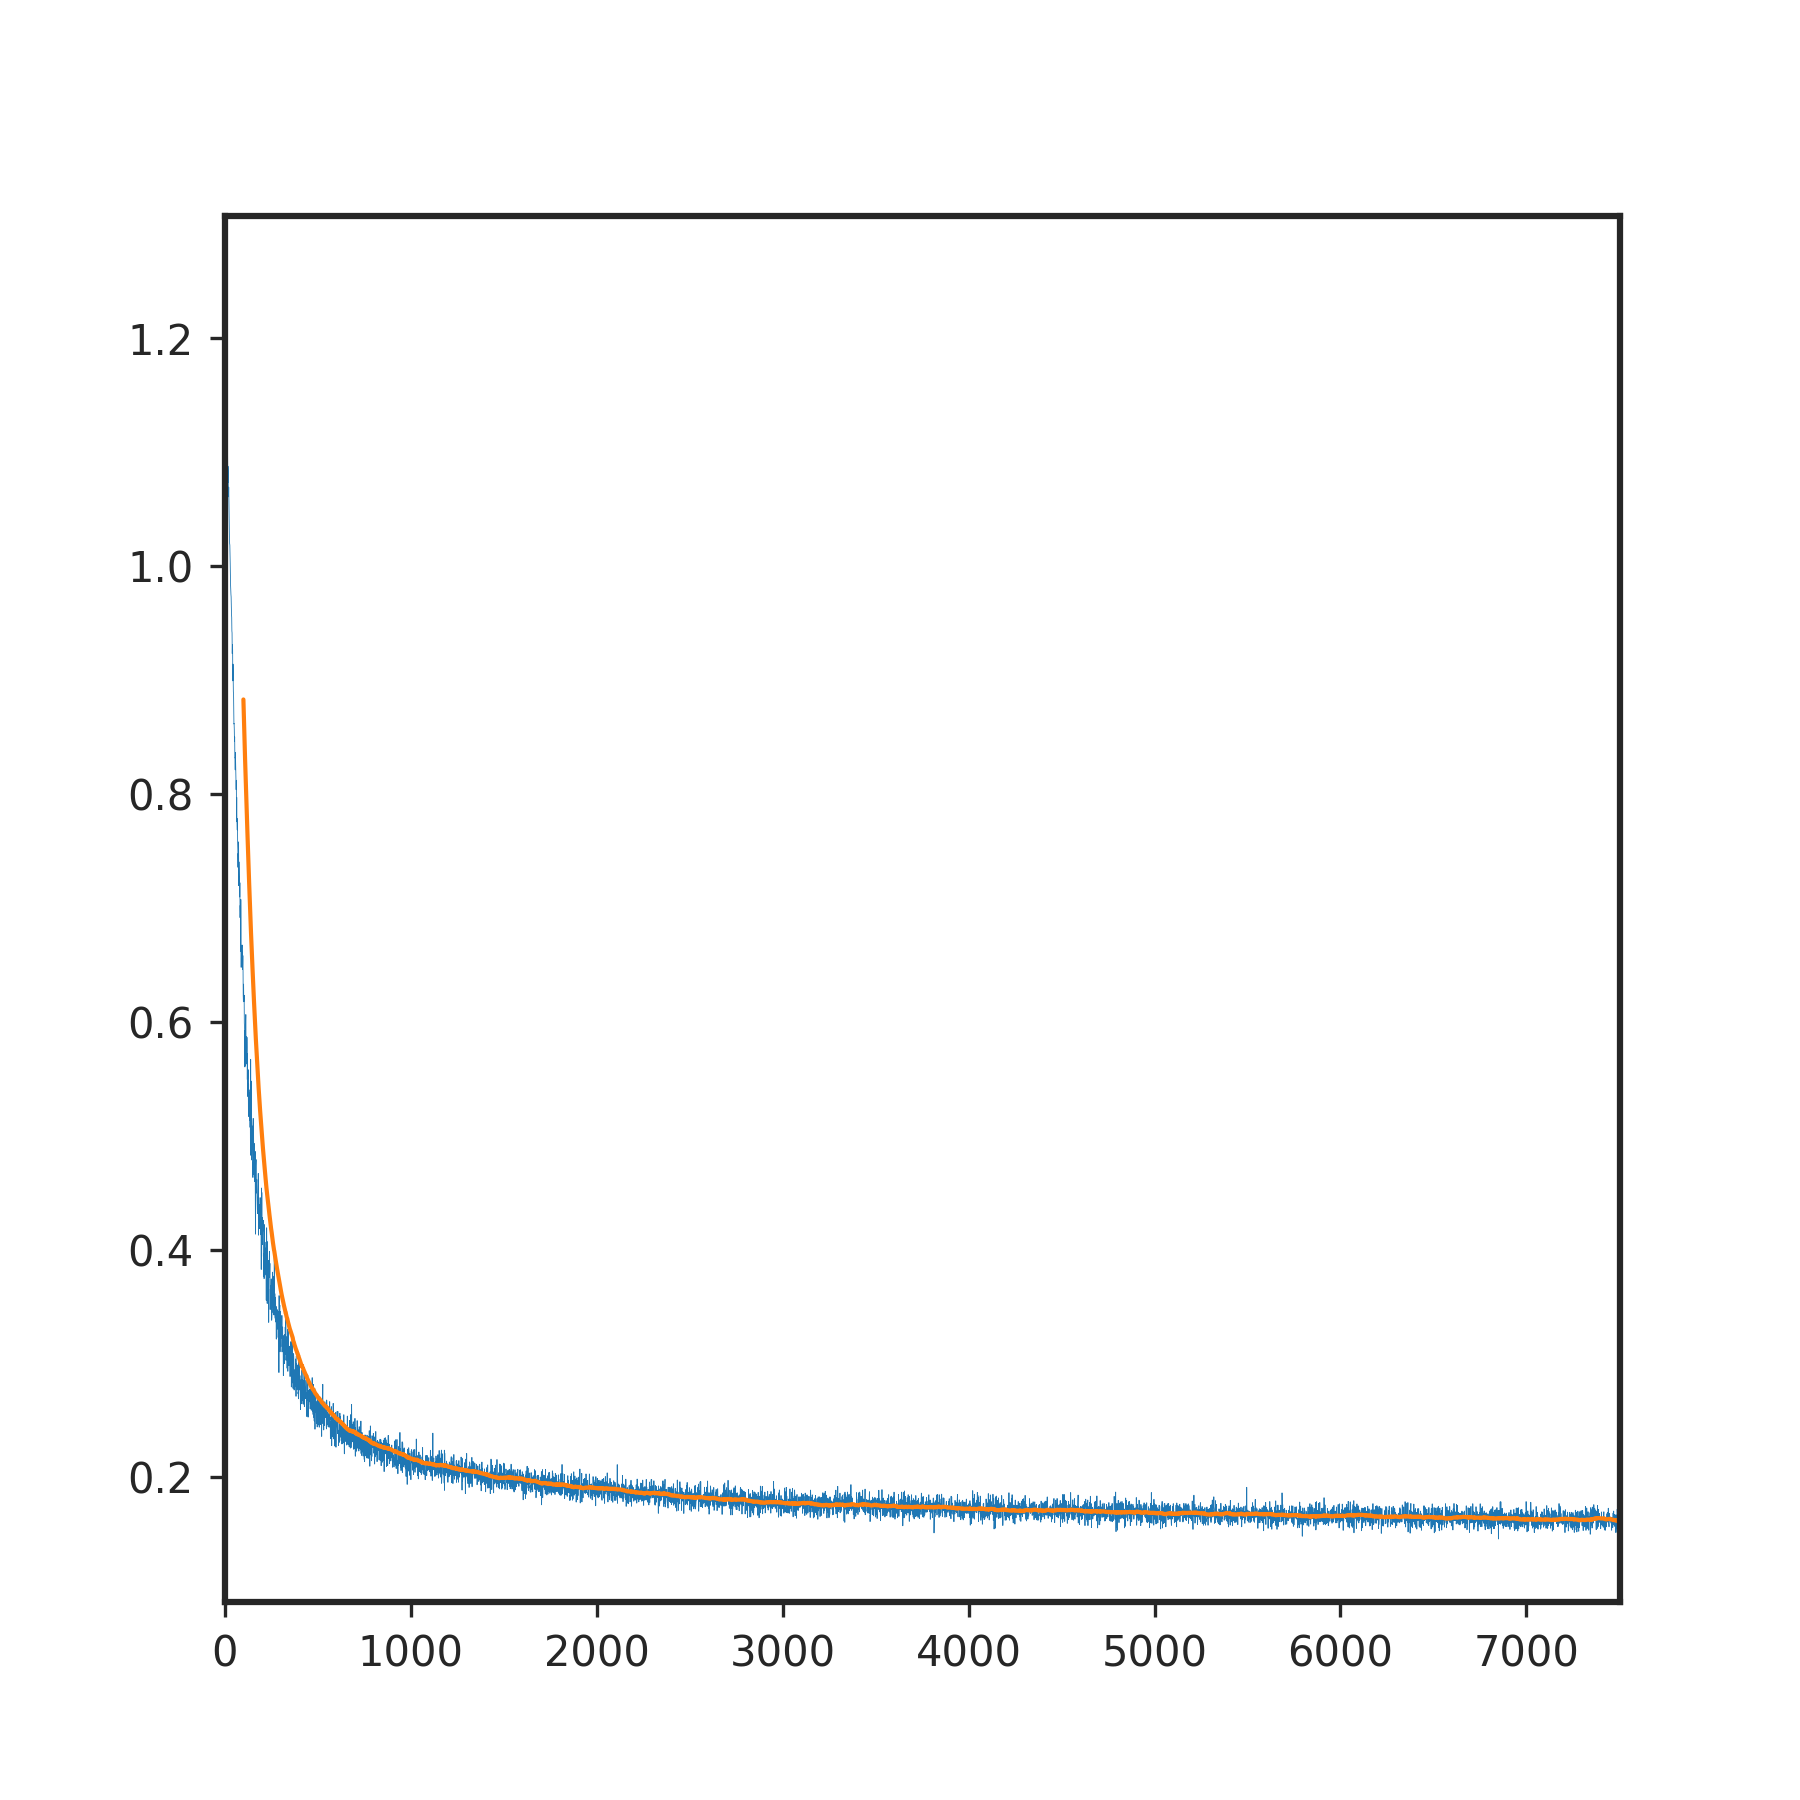
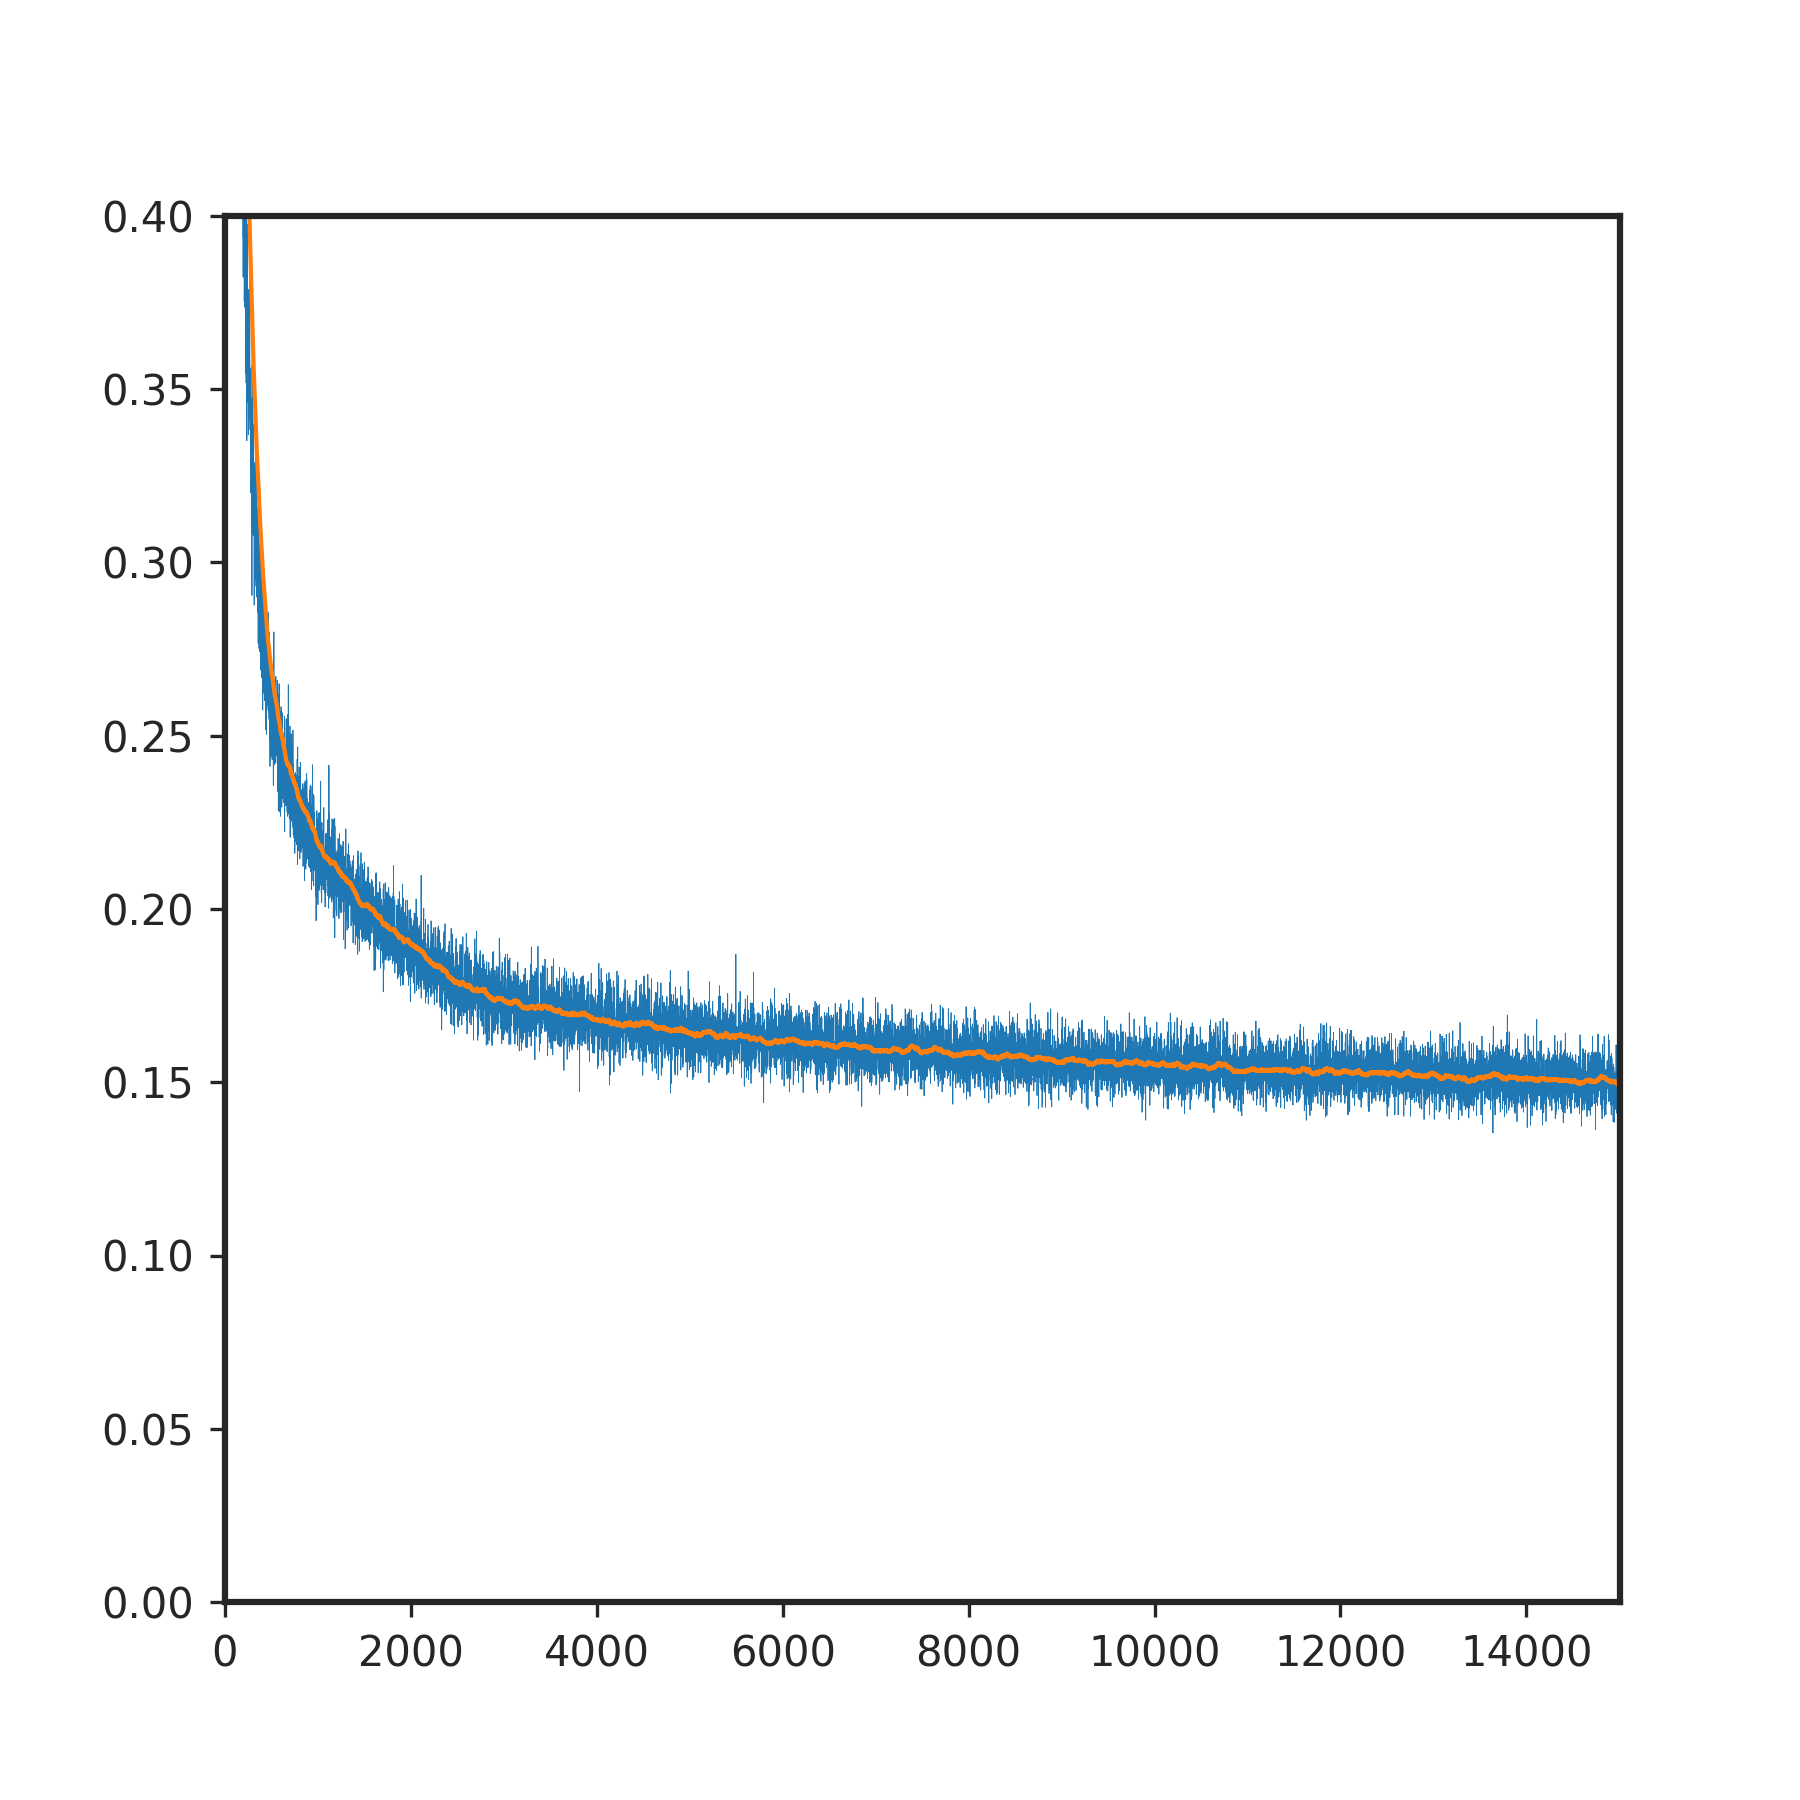
chore: updating notebooks

diff --git a/notebooks/2_4_fid.py b/notebooks/2_4_fid.py
@@ -6,9 +6,9 @@ from tqdm import tqdm
 
 from ddpm_from_scratch.engines.mnist import inference, load_mnist
 from ddpm_from_scratch.models.lenet5 import LeNet5
-from ddpm_from_scratch.models.unet import UNet
+from ddpm_from_scratch.models.unet_simple_with_timestep import UNetSimpleWithTimestep
 from ddpm_from_scratch.samplers.ddpm import DDPM
-from ddpm_from_scratch.utils import CosineBetaSchedule, gaussian_frechet_distance
+from ddpm_from_scratch.utils import LinearBetaSchedule, gaussian_frechet_distance
 
 PLOT_DIR = Path(__file__).parent.parent / "plots"
 DATA_DIR = Path(__file__).parent.parent / "data"
@@ -20,7 +20,8 @@ if __name__ == "__main__":
 
     #%% Load the LeNet5 model.
     lenet5 = LeNet5(num_classes=10)
-    lenet5.load_state_dict(torch.load(DATA_DIR / "2_4_lenet.pt")).to(device)
+    lenet5.load_state_dict(torch.load(DATA_DIR / "2_3_lenet5.pt"))
+    lenet5.to(device)
 
     # Load the MNIST dataset. Split between training and test set.
     mnist_train, dataloader_train, mnist_test, dataloader_test = load_mnist(DATA_DIR, batch_size=8)
@@ -28,7 +29,7 @@ if __name__ == "__main__":
     # Compute features for training and test set.
     with torch.inference_mode():
         features_train_list: list[Float[torch.Tensor, "b n"]] = []
-        for (x, _) in tqdm(dataloader_train, desc="lenet5 - training"):
+        for (x, _) in tqdm(dataloader_train, desc="lenet5 - training set"):
             x = x.to(device)
             f, _ = lenet5(x)
             features_train_list += [f]
@@ -49,14 +50,17 @@ if __name__ == "__main__":
     # Compute test-test and test-train FID, as lower bounds.
     test_test_fid = gaussian_frechet_distance(mean_test, cov_test, mean_test, cov_test).item()
     test_train_fid = gaussian_frechet_distance(mean_test, cov_test, mean_train, cov_train).item()
+    # Test-test FID should be 0, since we're comparing the same values. Just a sanity check.
     print(f"test-test FID: {test_test_fid:.4f}")
+    # Train-test FID should be ~0.8, a very low value since the distributions should also match.
     print(f"test-train FID: {test_train_fid:.4f}")
 
     #%% Compute test-random FID, as upper bound.
     # To estimate the FID of noise, create random noise, and compute its LeNet5 features.
+    # Here the FID is super high, > 1000. This is expected, since the noise is not a digit.
     with torch.inference_mode():
         features_rand_list: list[Float[torch.Tensor, "b n"]] = []
-        for (x, _) in tqdm(dataloader_test, desc="lenet5 - random"):
+        for (x, _) in tqdm(dataloader_test, desc="lenet5 - random data"):
             x = x.to(device)
             f, _ = lenet5(torch.rand_like(x))
             features_rand_list += [f]
@@ -66,12 +70,14 @@ if __name__ == "__main__":
     test_rand_fid = gaussian_frechet_distance(mean_test, cov_test, mean_rand, cov_rand).item()
     print(f"test-random FID: {test_rand_fid:.4f}")
 
-    #%% Generate a bunch of digits using the pretrained model
+    #%% Generate a bunch of digits using the pretrained model.
+    # We only use 50 steps in inference, to keep the process fast.
+    # We'll get an upper bound of FID, but that's ok! Feel free to use more steps, if you want.
 
-    unet = UNet()
-    unet.load_state_dict(torch.load(DATA_DIR / "2_3_unet.pt"))
-    betas = CosineBetaSchedule()
-    ddpm = DDPM(betas, unet, num_timesteps=1000, device=device)
+    unet = UNetSimpleWithTimestep()
+    unet.load_state_dict(torch.load(DATA_DIR / "2_2_unet.pt"))
+    betas = LinearBetaSchedule()
+    ddpm = DDPM(betas, unet, num_timesteps=50, device=device)
 
     with torch.inference_mode():
         features_ddpm_list: list[Float[torch.Tensor, "b n"]] = []

diff --git a/ddpm_from_scratch/engines/mnist.py b/ddpm_from_scratch/engines/mnist.py
@@ -31,6 +31,7 @@ class MnistInferenceGifCallback:
         self.writer = imageio.get_writer(filename, mode="I")
 
     def __call__(self, timestep: int, x: Float[torch.Tensor, "b ..."]) -> None:
+        x = torch.clip(x, -1, 1)
         # Plot multiple digits as a grid, each in a separate column
         grid = make_grid(x, padding=False, nrow=len(x), normalize=True)
         # Append the result to the GIF
@@ -63,7 +64,7 @@ def load_mnist(data_root: Path, batch_size: int = 4) -> tuple[MNIST, DataLoader,
         mnist_train,
         batch_size=batch_size,
         shuffle=True,
-        num_workers=4,
+        num_workers=8,
         drop_last=True,
     )
     mnist_test = MNIST(
@@ -87,7 +88,7 @@ def load_mnist(data_root: Path, batch_size: int = 4) -> tuple[MNIST, DataLoader,
     return mnist_train, dataloader_train, mnist_test, dataloader_test
 
 
-def get_one_element_per_digit(mnist: MNIST) -> Float[torch.Tensor, "10, 1, 28, 28"]:
+def get_one_element_per_digit(mnist: MNIST) -> Float[torch.Tensor, "10 1 28 28"]:
     """
     Get a single sample digit for each target category in MNIST, and return the result as a tensor.
     The output is a `[10, 1, 28, 28]` tensor, with digits `[0, 1, 2, ..., 9]`
@@ -138,7 +139,7 @@ def train(
             with torch.no_grad():
                 x_noisy, noise = sampler.forward_sample(t, x)
             # Predict the noise
-            _, predicted_noise = sampler.predict_x_0_and_noise(t, x_noisy)
+            predicted_noise = sampler.model(t, x_noisy)
             # Compute loss, as L2 of real and predicted noise
             loss = torch.nn.functional.mse_loss(predicted_noise, noise, reduction="mean")
             # Backward step
@@ -330,4 +331,6 @@ def inference(
         ):
             assert callback is not None
             callback(timestep, x)
-    return x
+    # Clip the output in [-1, 1]
+    return torch.clip(x, -1, 1)
+

diff --git a/notebooks/_3_4_inference_again.py b/notebooks/_3_4_inference_again.py
@@ -7,7 +7,7 @@ from segretini_matplottini.utils.plot_utils import reset_plot_style
 from tqdm import tqdm
 
 from ddpm_from_scratch.engines.mnist import MnistInferenceGifCallback, get_one_element_per_digit, load_mnist
-from ddpm_from_scratch.models.unet_simple import UNetSimple
+from ddpm_from_scratch.models.unet_simple_with_timestep import UNetSimpleWithTimestep
 from ddpm_from_scratch.samplers.ddim import DDIM
 from ddpm_from_scratch.utils import ScaledLinearBetaSchedule
 
@@ -28,7 +28,7 @@ if __name__ == "__main__":
 
     # Define the denoising model.
     # model = UNetConditioned(num_classes=10, hidden_channels=24).to(device)
-    model = UNetSimple().to(device)
+    model = UNetSimpleWithTimestep().to(device)
 
     # Create the diffusion process.
     num_timesteps = 1000
@@ -39,7 +39,7 @@ if __name__ == "__main__":
     mnist_train, dataloader_train, mnist_test, dataloader_test = load_mnist(DATA_DIR, batch_size=8)
 
     # Load the trained model
-    model.load_state_dict(torch.load(DATA_DIR / "2_1_unet.pt"))
+    model.load_state_dict(torch.load(DATA_DIR / "2_2_unet.pt"))
     model = model.half()
 
     #%% Do inference, denoising one sample digit for each category (0, 1, 2, ...).

diff --git a/notebooks/2_1_mnist.py b/notebooks/2_1_mnist.py
@@ -41,7 +41,7 @@ class Config:
 DEVICE = "cuda" if torch.cuda.is_available() else "cpu"
 TRAINING_CONFIG: dict[str, Config] = {
     "cuda": Config(
-        num_training_epochs=16,
+        num_training_epochs=32,
         batch_size=128,
         lr=1e-3,
         device=torch.device("cuda"),
@@ -113,7 +113,7 @@ if __name__ == "__main__":
         ),
     )
     batch_size = config.batch_size
-    dataloader = DataLoader(mnist, batch_size=batch_size, shuffle=True, num_workers=1)
+    dataloader = DataLoader(mnist, batch_size=batch_size, shuffle=True, num_workers=8)
 
     #%% Train the model.
     # This training is identical to denoising the spiral,
@@ -163,6 +163,7 @@ if __name__ == "__main__":
         zorder=2,
     )
     plt.xlim(0, len(losses))
+    plt.ylim(0, 0.4)
     save_plot(PLOT_DIR, "2_1_loss_function.png", create_date_dir=False)
 
     #%% Do inference, denoising one sample digit for each category (0, 1, 2, ...).

diff --git a/notebooks/2_2_mnist_with_timestep.py b/notebooks/2_2_mnist_with_timestep.py
@@ -39,9 +39,9 @@ class Config:
 DEVICE = "cuda" if torch.cuda.is_available() else "cpu"
 TRAINING_CONFIG: dict[str, Config] = {
     "cuda": Config(
-        num_training_epochs=32,
+        num_training_epochs=96,
         batch_size=128,
-        lr=1e-4,
+        lr=1e-3,
         device=torch.device("cuda"),
     ),
     "cpu": Config(
@@ -93,6 +93,9 @@ if __name__ == "__main__":
         device=device,
     )
 
+    # Save the model
+    torch.save(model.state_dict(), DATA_DIR / "2_2_unet.pt")
+
     #%% Plot the loss function
     plt.figure(figsize=(6, 6))
     plt.plot(np.arange(len(losses)), losses, lw=0.2)
@@ -103,7 +106,7 @@ if __name__ == "__main__":
         zorder=2,
     )
     plt.xlim(0, len(losses))
-    plt.ylim(0.4, 1.6)
+    plt.ylim(0, 0.4)
     save_plot(PLOT_DIR, "2_2_loss_function.png", create_date_dir=False)
 
     #%% Do inference, denoising one sample digit for each category (0, 1, 2, ...).

diff --git a/ddpm_from_scratch/models/unet_simple_with_timestep.py b/ddpm_from_scratch/models/unet_simple_with_timestep.py
@@ -104,11 +104,11 @@ class UNetSimpleWithTimestep(nn.Module):
             x = nn.functional.relu(x)
             xs.append(x)
         # Upsample pass
-        for layer, emb in zip(self.upsample_layers.values(), self.upsample_timesteps.values()):
+        for i, (layer, emb) in enumerate(zip(self.upsample_layers.values(), self.upsample_timesteps.values())):
             # Concatenate each input with the output of the corresponding downsample layer, on the channel dimension
             x = torch.cat([x, xs.pop()], dim=1)
             x = layer(x)
             # Add the timestep to the layer output
             x = x + expand_to_dims(emb(t), x)  # Replicate time embedding to H and W
-            x = nn.functional.relu(x)
+            x = nn.functional.relu(x) if i < len(self.upsample_layers) - 1 else x  # Don't apply ReLU to the last layer
         return x

diff --git a/ddpm_from_scratch/samplers/ddpm.py b/ddpm_from_scratch/samplers/ddpm.py
@@ -120,7 +120,9 @@ class DDPM:
             noise_cf = self.model(_t_scaled, x_t)
             noise = noise_cf + classifier_free_scale * (noise - noise_cf)
         # x_hat_0 is obtained from equation (15) of DDPM, https://arxiv.org/pdf/2006.11239.pdf
-        x_hat_0 = (x_t - torch.sqrt(1 - self.alpha_cumprods[_t]) * noise) / torch.sqrt(self.alpha_cumprods[_t])
+        x_hat_0 = (x_t - torch.sqrt(1 - expand_to_dims(self.alpha_cumprods[_t], noise)) * noise) / expand_to_dims(
+            torch.sqrt(self.alpha_cumprods[_t]), noise
+        )
         return x_hat_0, noise
 
     def backward_sample(

diff --git a/notebooks/2_3_lenet.py b/notebooks/2_3_lenet.py
@@ -90,11 +90,11 @@ if __name__ == "__main__":
         zorder=2,
     )
     plt.xlim(0, len(losses))
-    save_plot(PLOT_DIR, "2_4_loss_function.png", create_date_dir=False)
+    save_plot(PLOT_DIR, "2_3_loss_function.png", create_date_dir=False)
     # Print a summary
     print(
         f"final validation loss: {val_losses_per_epoch[-1]:.4f}, "
         + f"probability of error: {100 * val_errors_per_epoch[-1]:.4f}%"
     )
     # Save the model
-    torch.save(model.state_dict(), DATA_DIR / "lenet5.pt")
+    torch.save(model.state_dict(), DATA_DIR / "2_3_lenet5.pt")

diff --git a/ddpm_from_scratch/utils.py b/ddpm_from_scratch/utils.py
@@ -8,7 +8,7 @@ from jaxtyping import Float, Integer
 COOL_GREEN = "#57bb8a"
 
 
-Timestep = Union[int, list[int], Integer[torch.Tensor, "*#b *#t"]]
+Timestep = Union[int, list[int], Integer[torch.Tensor, "*#b #t"]]
 
 
 def univariate_gaussian_sample(n: int, μ: float = 0, σ: float = 1) -> Float[torch.Tensor, " n"]:
